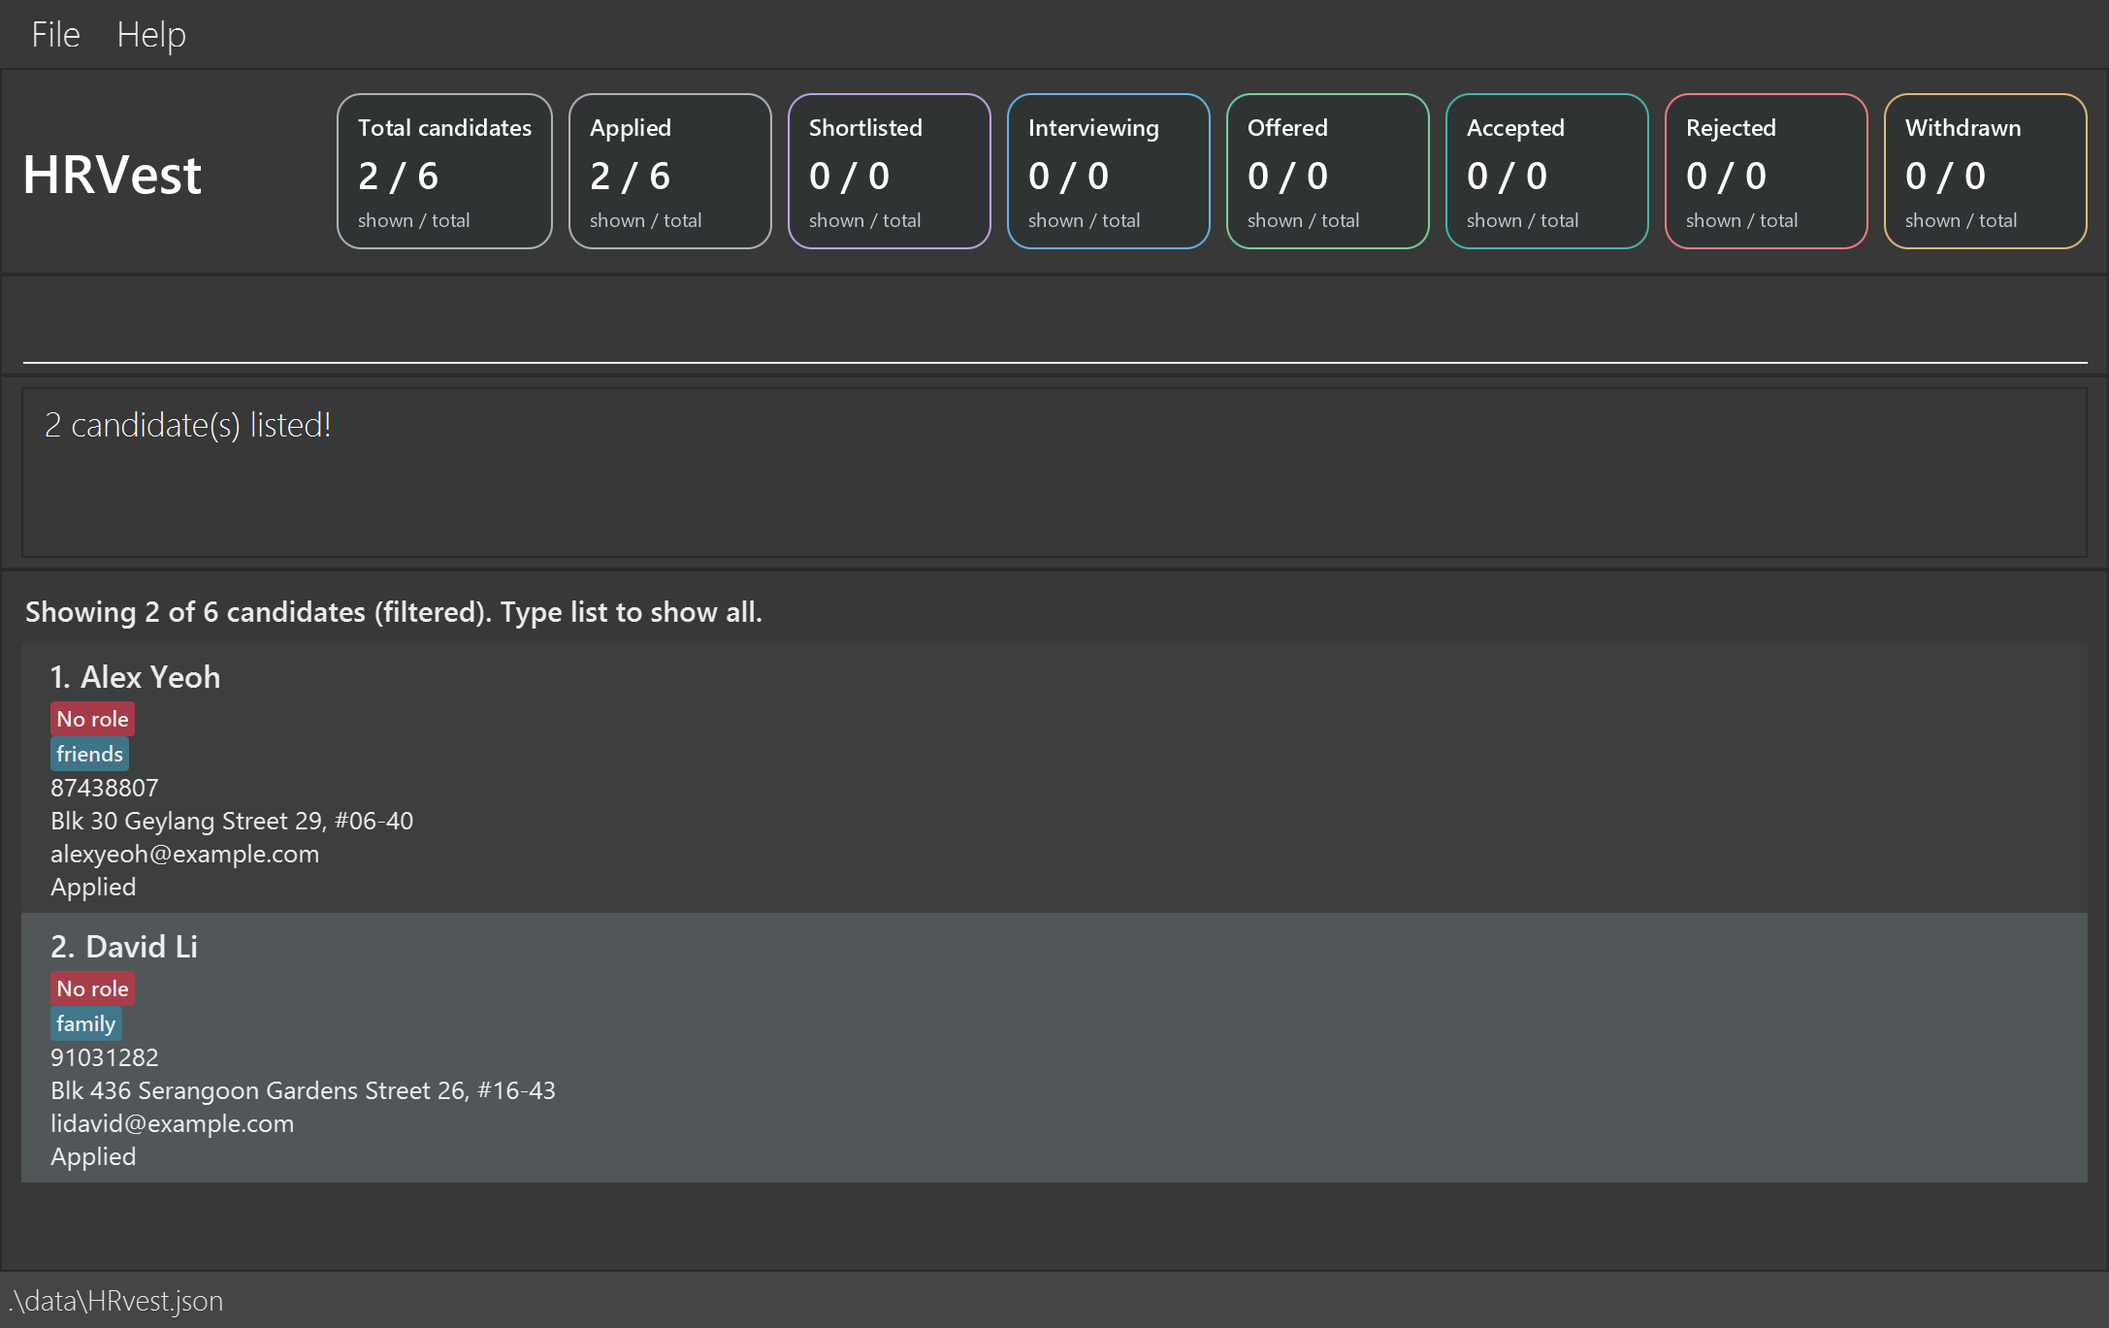
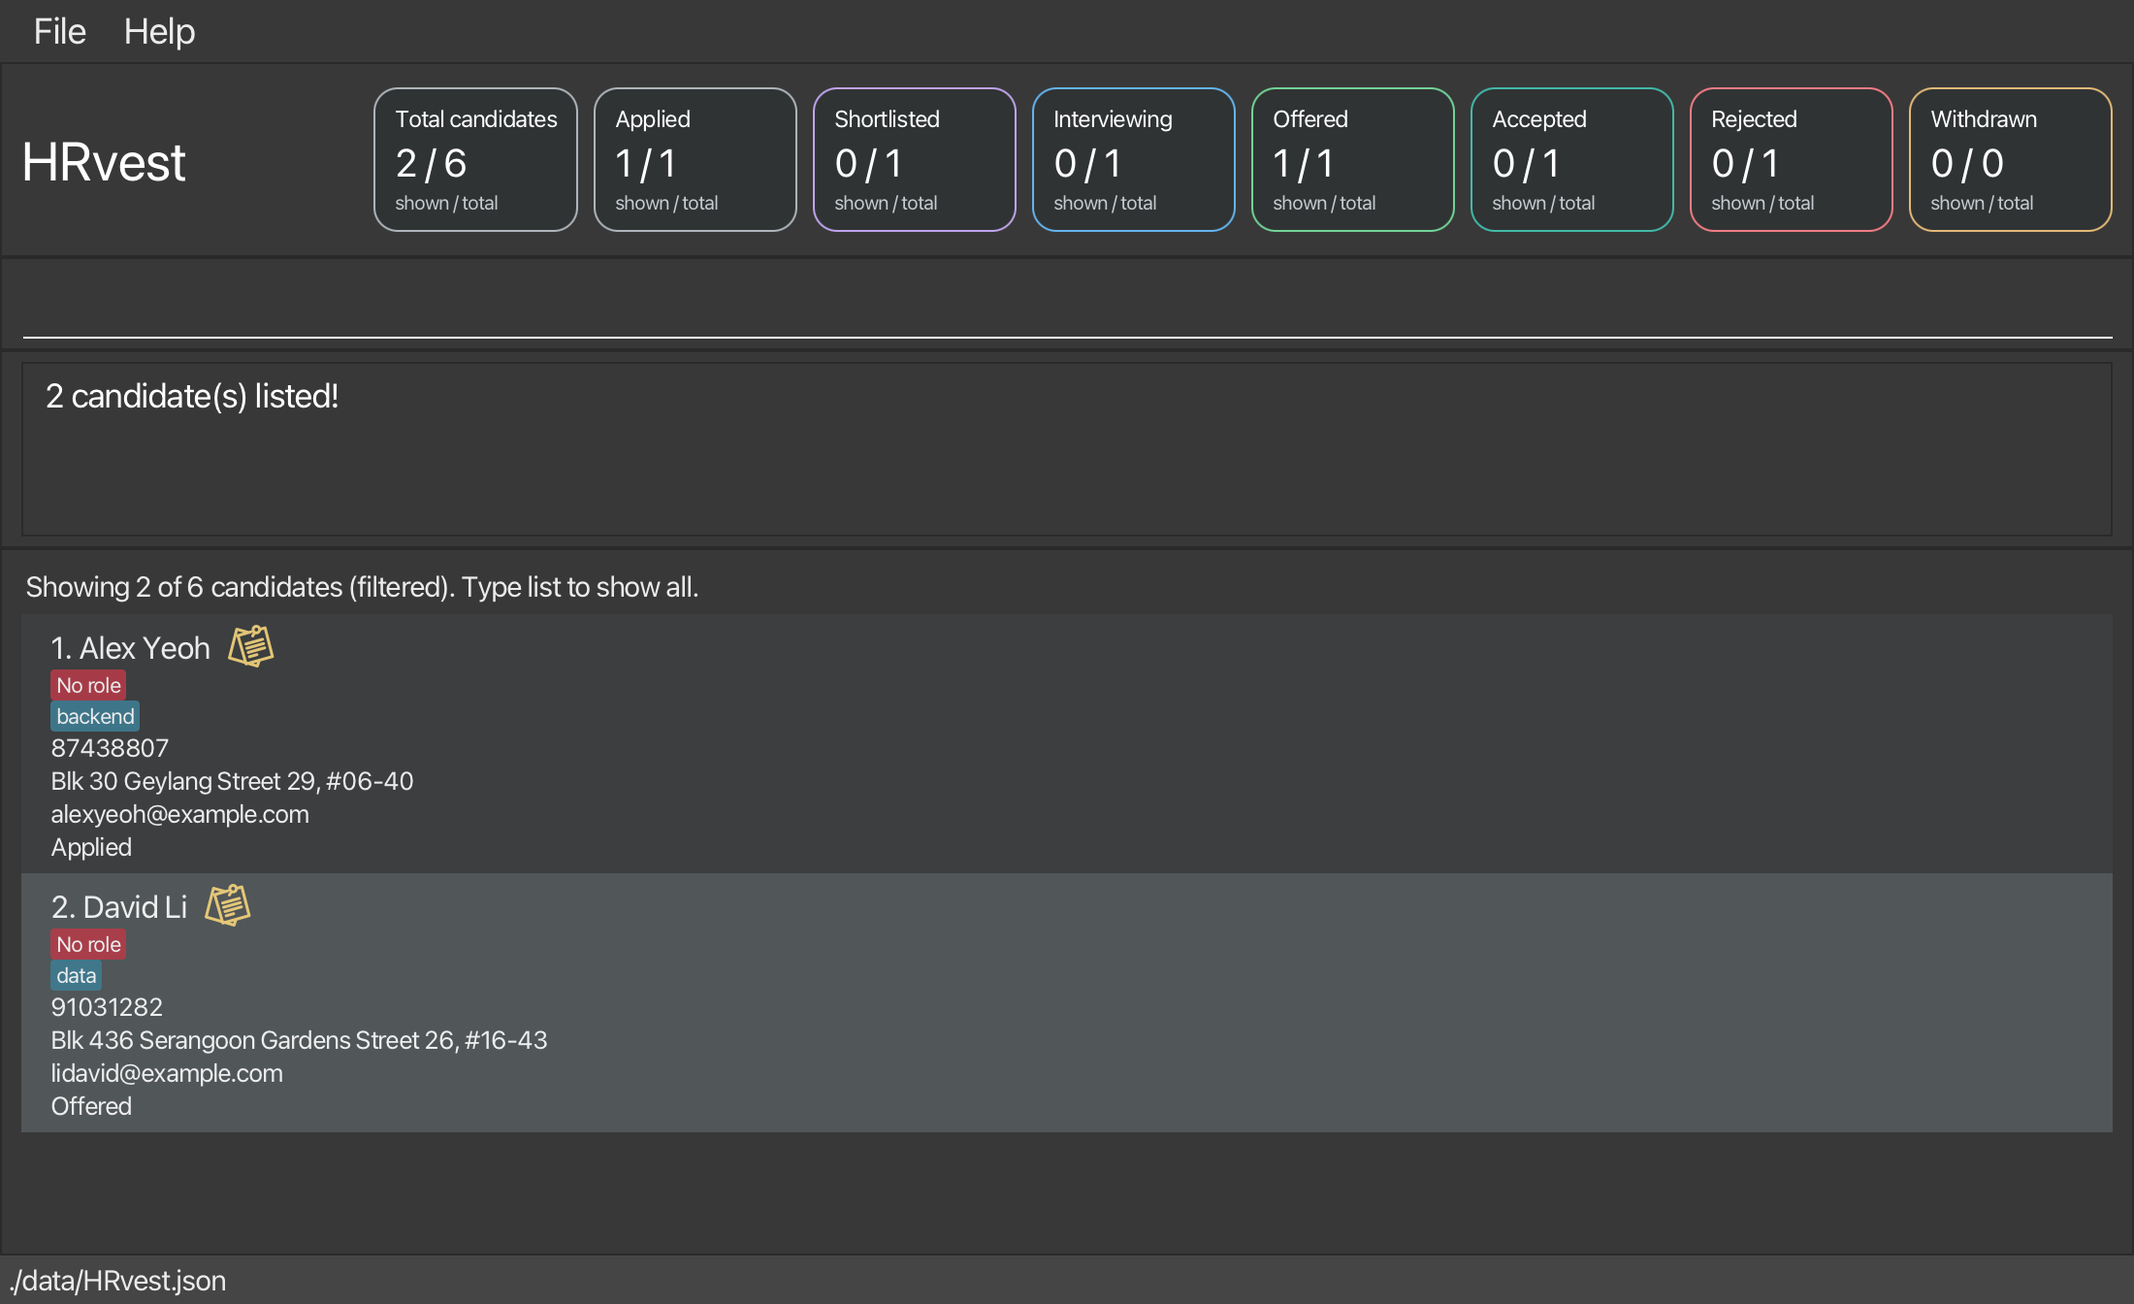
doc: Standardise User Guide wording

diff --git a/docs/UserGuide.md b/docs/UserGuide.md
@@ -70,6 +70,14 @@ HRvest is a **desktop address book that helps hiring managers at startups track 
 * If you are using a PDF version of this document, be careful when copying and pasting commands that span multiple lines as space characters surrounding line-breaks may be omitted when copied over to the application.
 </box>
 
+### Filters and expanded view
+
+After `edit`, `note`, or `status`, the current name, status, or role filter stays active. Candidates that no longer match disappear from the displayed list, so displayed indexes may change.
+
+`expand` replaces that filter with a selection of one candidate at index `1`. Updating the expanded candidate keeps them selected at index `1`, even if their new details would not match the earlier filter.
+
+Check the displayed list before using another index command. Use `list` to show all candidates again.
+
 ### Accepted characters in candidate inputs
 
 Names, phone numbers, emails, addresses, tags, notes, and `find` keywords accept only **printable ASCII (`U+0020–U+007E`)**: English letters (`A–Z`, `a–z`), digits (`0–9`), ordinary spaces, and ASCII punctuation. This keeps command input within a single, explicit character set. Existing field rules still apply afterward: for example, phone numbers need at least three ASCII digits, and names accept only the punctuation used in legal names, such as `O'Brien`, `Jr.`, `s/o` and `(Kelvin)`.
@@ -95,7 +103,7 @@ Format: `add n/NAME p/PHONE_NUMBER e/EMAIL a/ADDRESS r/ROLE [r/MORE_ROLE]... [s/
 
 | Parameter | Required? | Accepted values and behavior |
 |---|---|---|
-| `n/NAME` | Yes | A non-blank name made of words that each start with a letter or digit, e.g. `n/John Doe`. To match legal names, names can also use apostrophes, periods, hyphens and slashes between letters or digits (`n/Anne O'Brien`, `n/J.R. Tan`, `n/Kelly-Ann Tan`, `n/Ravi s/o Kumar`), one period at the end of a word (`n/Tan Ah Kow Jr.`), a comma after a word (`n/Martin Luther King, Jr.`), words in parentheses after the first word (`n/Tan Wei Ming (Kelvin)`), and an alias after a separate `@` (`n/Mohamed Ali @ Ahmad`). Lineage and gender markers such as `s/o`, `d/o`, `a/l`, `a/p` and `l/p` are accepted; within a name, `s/o` followed by a space, in any letter case, stays part of the name rather than starting a status. Because an address can start with `L` or `P`, put `a/ADDRESS` before `n/NAME` when using `a/l` or `a/p` in a name, e.g. `edit 1 a/1 Road n/Siti a/p Ahmad`. A later address is also accepted when another field, such as `p/`, separates it from the name. If a connector-looking value is immediately followed by an address field, HRvest asks you to clarify instead of guessing: `edit 1 n/John a/L Street a/9 Road` is rejected. To set an address such as `L Street` together with a name, use `edit 1 a/L Street n/John`. Other punctuation, repeated punctuation such as `O''Brien`, and punctuation-only words are rejected. Like other command input, names accept only [printable ASCII](#accepted-characters-in-candidate-inputs), so accented or non-Latin letters such as `José` or `陈` must be entered in their romanised form, e.g. `Jose`. Leading and trailing spaces are removed; internal spaces and letter case are preserved. |
+| `n/NAME` | Yes | A non-blank, printable-ASCII name whose words each start with a letter or digit, e.g. `n/John Doe`. Legal-name punctuation and markers are accepted; see [Name rules](#name-rules) below for examples and parameter-ordering guidance. |
 | `p/PHONE_NUMBER` | Yes | Any printable-ASCII text containing at least three ASCII digits, e.g. `p/+65 9123 4567`, `p/(65) 6123 4567`, or `p/1234 5678 (HP) 1111-3333 (Office)`. Formatting, extensions and contact labels are accepted. Leading and trailing spaces are removed; internal text and leading zeroes are preserved. HRvest stores contact information without checking whether a number is dialable. |
 | `e/EMAIL` | Yes | An address in `local-part@domain` format, e.g. `e/anne.o'brien@example.com`. The local part allows letters, digits, and <code>!#$%&'*+/=?^_&#96;{&#124;}~-</code>, with periods separating non-empty groups. Leading, trailing, and consecutive periods are invalid. Domain labels must start and end with letters or digits and may contain internal hyphens, including consecutive hyphens (e.g. `xn--bcher-kva.de`); the final label must contain at least two characters. Spaces and quoted local parts are not accepted. |
 | `a/ADDRESS` | Yes | Any non-blank, printable-ASCII address, e.g. `a/John street, block 123, #01-01`. Spaces and punctuation are allowed. |
@@ -103,13 +111,25 @@ Format: `add n/NAME p/PHONE_NUMBER e/EMAIL a/ADDRESS r/ROLE [r/MORE_ROLE]... [s/
 | `s/STATUS` | No | One of `Applied`, `Shortlisted`, `Interviewing`, `Offered`, `Accepted`, `Rejected`, or `Withdrawn`. Defaults to `Applied` if omitted. Input ignores letter case, so `s/interviewing` is saved and displayed as `Interviewing`. A bare `s/` is invalid rather than using the default. |
 | `t/TAG` | No | A non-blank label containing only letters and digits, e.g. `t/backend`. Spaces and punctuation are not accepted. Repeat the prefix for multiple tags: `t/backend t/Java`. Identical tags are removed, but tags are case-sensitive: `t/Java` and `t/java` are distinct. Omit `t/` for no tags; a bare `t/` is invalid when adding. |
 
+#### Name rules
+
+These rules apply to names supplied through `add` and `edit`.
+
+* **Punctuation between letters or digits:** Apostrophes, periods, hyphens and slashes are accepted, e.g. `Anne O'Brien`, `J.R. Tan`, `Kelly-Ann Tan` and `Ravi s/o Kumar`.
+* **Other legal-name forms:** A word may end with one period (`Tan Ah Kow Jr.`) or be followed by a comma (`Martin Luther King, Jr.`). Words in parentheses are accepted after the first word (`Tan Wei Ming (Kelvin)`), as is an alias after a separate `@` (`Mohamed Ali @ Ahmad`).
+* **Name markers:** `s/o`, `d/o`, `a/l`, `a/p` and `l/p` are accepted. Within a name, `s/o` followed by a space stays part of the name rather than starting a status field, regardless of letter case.
+* **Ordering names and addresses:** When using `a/l` or `a/p` in a name, put the address first, e.g. `edit 1 a/1 Road n/Siti a/p Ahmad`. A later address is also accepted if another field, such as `p/`, separates it from the name.
+* **Ambiguous addresses:** An address beginning with `L` or `P` can look like a name marker. Put the address first, e.g. `edit 1 a/L Street n/John`. An ambiguous sequence such as `edit 1 n/John a/L Street a/9 Road` is rejected rather than guessed.
+* **Rejected punctuation:** Other punctuation, repeated punctuation such as `O''Brien`, and punctuation-only words are rejected.
+* **Characters and spacing:** Only [printable ASCII](#accepted-characters-in-candidate-inputs) is accepted. Enter accented or non-Latin names such as `José` or `陈` in romanised form, e.g. `Jose`. Leading and trailing spaces are removed; internal spaces and letter case are preserved.
+
 **Input and results:**
 
 * Supply each of `n/`, `p/`, `e/`, `a/`, and `s/` at most once. Both `t/` and `r/` can be repeated. Repeated single-valued prefixes are rejected, even if their values are identical.
 * The error message lists all missing contact parameters together. For example, `add n/John Doe r/No role` reports `Missing p/PHONE_NUMBER, e/EMAIL, a/ADDRESS.`
 * Create named roles with `add_role` before assigning them to a candidate. A bare `r/` or an unknown role is rejected.
 * Email alone identifies duplicates: surrounding whitespace is trimmed and the whole email is compared case-insensitively. For example, `Alice@Example.com` and `alice@example.com` belong to the same candidate. Adding a duplicate is rejected with `Another candidate (NAME) already uses this email.`, where `NAME` identifies the matching existing record, even if hidden by a filter. The submitted candidate and current view are not changed. Names, phones, addresses, statuses, roles, tags, and notes do not affect duplicate detection. Candidates with the same name but different emails are allowed. Email capitalisation is preserved for display and storage.
-* Use only the documented prefixes. Unknown prefixes such as `x/` are treated as part of the preceding value, not as separate fields. A recognised prefix in any letter case preceded by whitespace also starts a new field, even if you intended it to be part of an address. For example, the `N/` in `a/Unit N/A` is read as a second name prefix. The only exceptions are the name connectors `s/o`, `a/l` and `a/p` within `n/NAME`, described in the `n/NAME` row above.
+* Use only the documented prefixes. Unknown prefixes such as `x/` are treated as part of the preceding value, not as separate fields. A recognised prefix in any letter case preceded by whitespace also starts a new field, even if you intended it to be part of an address. For example, the `N/` in `a/Unit N/A` is read as a second name prefix. The only exceptions are the name connectors `s/o`, `a/l` and `a/p` within `n/NAME`, described in [Name rules](#name-rules) above.
 * `no/` is reserved for the `note` command and is rejected anywhere in `add`, in any letter case, including with empty text or after a tab. The error is `The add command does not support no/. Add the candidate first, then use note INDEX no/NOTE_TEXT.` Add the candidate without `no/`, then use their displayed index with `note` to record a note. Text such as `yes/no/feedback` inside an address word remains literal address text.
 
 Examples:
@@ -136,7 +156,8 @@ Format: `edit INDEX [n/NAME] [p/PHONE_NUMBER] [e/EMAIL] [a/ADDRESS] [s/STATUS] [
 
 * Edits the candidate at the specified `INDEX`. The index refers to the index number shown in the displayed candidate list. The index **must be a positive integer** 1, 2, 3, ...
 * At least one of the optional fields must be provided.
-* Existing values will be updated to the input values. The current filter is kept; candidates that no longer match disappear from the displayed list.
+* Existing values will be updated to the input values.
+* Keeps the current filter or expanded view. See [Filters and expanded view](#filters-and-expanded-view) for details.
 * If every value you give matches the candidate's current details, nothing is changed and the message is `No changes made: NAME already has these details.`
 * An email matching another candidate's email (ignoring case and surrounding whitespace) is rejected with `Another candidate (NAME) already uses this email.`, where `NAME` identifies the matching existing record rather than the submitted name, even if hidden by a filter. The original candidate, filter, and expanded view remain unchanged. Keeping your candidate's email, changing only its capitalisation, or editing other fields does not cause a self-duplicate error.
 * Supplied `r/` values replace all existing roles; omitting `r/` preserves them. A bare `r/` is invalid; use `r/No role` to remove named roles. Unknown roles suggest `add_role n/NAME`, and an invalid role leaves all details unchanged.
@@ -153,8 +174,6 @@ Examples:
 *  `edit 3 s/Interviewing` Updates the status of the 3rd candidate to `Interviewing`.
 * `edit 1 r/Developer r/Designer` Replaces the 1st candidate's roles with Developer and Designer, which must already exist.
 
-After an ordinary `edit`, `note`, or `status` update, the current name, status, or role filter remains active. Displayed indexes may change when a candidate stops matching. Expanding a candidate replaces that filter with a selection of the candidate: an update keeps them expanded at index `1`, even if their new name, status, or roles would not match the earlier filter. Check the displayed list before the next index command; use `list` to show all candidates.
-
 ### Adding, replacing, or clearing a candidate's note: `note`
 
 Adds a note to the specified candidate, such as interview feedback or follow-up context.
@@ -164,10 +183,11 @@ Format: `note INDEX no/[NOTE_TEXT]`
 * Adds the note to the candidate at the specified `INDEX`. The index refers to the index number shown in the displayed candidate list. The index **must be a positive integer** 1, 2, 3, ...
 * `0` or a negative index gives `Index must be a positive integer.` An index beyond the displayed list gives `The candidate index provided is invalid.` A missing or non-numeric index gives `Invalid command format!`. The current view stays unchanged.
 * Each candidate has one note. If the candidate already has a note, it is replaced by the new note.
-* To clear the note, enter `note INDEX no/` with no text after `no/`. Whitespace-only text also clears it. The message is `Cleared note for NAME`. Clearing a candidate who already has no note succeeds and keeps that candidate unchanged.
+* To clear the note, enter `note INDEX no/` with no text after `no/`. Text containing only ordinary spaces also clears the note. The message is `Cleared note for NAME`. Clearing a candidate who already has no note succeeds and keeps that candidate unchanged.
 * Non-empty `NOTE_TEXT` can contain at most 500 printable-ASCII characters. Leading and trailing ordinary spaces are removed; spacing, capitalisation, and ASCII punctuation within the note are kept. Tabs, line breaks, and non-ASCII characters are rejected.
 * Supply `no/` only once. Because prefixes ignore letter case, a later ` NO/` in the text also counts as a second `no/`. Other prefixes, such as `n/`, are treated as part of the note.
-* After the note is updated or cleared, the current filter is kept. When adding or replacing a note, the message is `Updated note for NAME: NOTE_TEXT`.
+* Keeps the current filter or expanded view. See [Filters and expanded view](#filters-and-expanded-view) for details.
+* When adding or replacing a note, the message is `Updated note for NAME: NOTE_TEXT`.
 * Editing a candidate or updating their status keeps their note. Use `expand INDEX` to view the full note.
 
 Examples:
@@ -191,7 +211,8 @@ Format: `status INDEX s/STATUS`
 * `INDEX` is a positive, 1-based index in the displayed list.
 * Valid statuses are `Applied`, `Shortlisted`, `Interviewing`, `Offered`, `Accepted`, `Rejected`, and `Withdrawn`, regardless of letter case.
 * Candidates created with `add` start with `Applied` unless an initial `s/STATUS` is supplied. Status is saved immediately, shown on the candidate card, and does not affect duplicate checking. Older records without a saved status load as `Applied`; explicitly saved statuses are preserved.
-* After an update, the current filter is kept. Candidates that no longer match a status filter disappear from the displayed list. The message is `Updated status of NAME: OLD_STATUS -> NEW_STATUS`.
+* Keeps the current filter or expanded view. See [Filters and expanded view](#filters-and-expanded-view) for details.
+* The message is `Updated status of NAME: OLD_STATUS -> NEW_STATUS`.
 * If the candidate already has the requested status, the message is `No change: NAME already has status STATUS.` Their record and the current filtered or expanded view stay unchanged.
 * `0` or a negative index gives `Index must be a positive integer.` An index beyond the displayed list gives `The candidate index provided is invalid.` A missing or non-numeric index, or a missing `s/`, gives `Invalid command format!`. The candidate and current view stay unchanged.
 * An unknown status gives `Status must be one of: Applied, Shortlisted, Interviewing, Offered, Accepted, Rejected, Withdrawn`; repeated `s/` gives `Multiple values specified for the following single-valued field(s): s/`.
@@ -232,7 +253,7 @@ Format: `filter [s/STATUS]... [r/ROLE]...`
 * Each `filter` replaces the previous search or filter and considers all candidates, so `filter` and `find` cannot be combined. For example, `find Alex` followed by `filter r/Developer` shows every Developer, not only those matching `Alex`.
 * Valid statuses: `Applied`, `Shortlisted`, `Interviewing`, `Offered`, `Accepted`, `Rejected`, `Withdrawn`.
 * Status and role matching ignore case. Role names ignore surrounding whitespace and must exist in the catalog.
-* Invalid input leaves the displayed list unchanged. An invalid status lists valid statuses; an unknown role suggests `list_role`. Other prefixes, such as `n/` or `t/`, are rejected with `The filter command does not support n/. Use only s/STATUS and r/ROLE.`
+* Invalid input leaves the displayed list unchanged. An invalid status lists valid statuses; an unknown role suggests `list_role`. Other prefixes are rejected. For example, `filter n/Alex` gives `The filter command does not support n/. Use only s/STATUS and r/ROLE.`
 * If no candidates match, the result count is zero.
 * Renaming a role keeps an active filter following that role. Deleting it removes that role's matches.
 
@@ -319,7 +340,7 @@ Format: `edit_role r/EXISTING_NAME n/NEW_NAME`
 * The role must exist and must not be `No role`.
 * The new name must not match another role. Changing only capitalisation is allowed.
 * Other role assignments stay unchanged.
-* Keeps the current filter or expanded candidate.
+* Keeps the current filter or expanded view. See [Filters and expanded view](#filters-and-expanded-view) for details.
 
 Example: `edit_role r/Software Engineer n/Senior Software Engineer`
 
@@ -331,7 +352,7 @@ Format: `delete_role r/NAME`
 
 * The role must exist and must not be `No role`.
 * Candidates keep their other roles. Those losing their last role receive `No role`.
-* Keeps the current filter or expanded candidate.
+* Keeps the current filter or expanded view. See [Filters and expanded view](#filters-and-expanded-view) for details.
 
 Example: `delete_role r/Senior Software Engineer`
 
